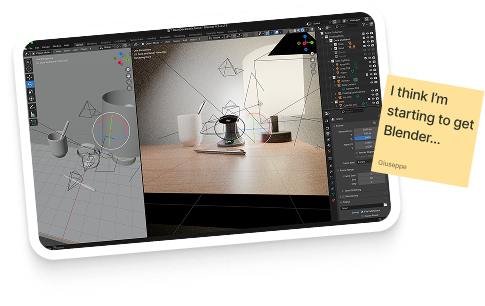
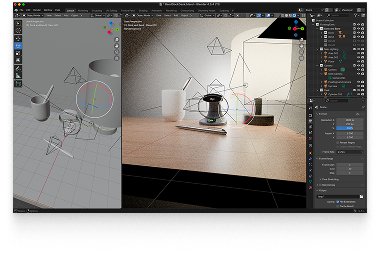
update

diff --git a/css/global.css b/css/global.css
@@ -78,7 +78,7 @@ body {
 
 /* Pill expanded state — fixed width so CSS can interpolate cleanly */
 .custom-cursor.expanded {
-  width: 170px;
+  width: var(--cursor-expanded-width, 170px);
   height: 46px;
   gap: 8px;
   border-radius: 12px;
@@ -143,6 +143,10 @@ body {
 
 .custom-cursor.no-arrow .cursor-arrow {
   display: none;
+}
+
+.custom-cursor.expanded.no-arrow {
+  padding: 0 16px;
 }
 
 /* Hide any legacy SVG injected by old JS */
@@ -1959,15 +1963,97 @@ body {
 }
 
 .mac-canvas-area {
-  height: 500px;
+  min-height: 500px;
+  padding: 32px;
   background-color: #f5f5f5;
   background-image: radial-gradient(circle, #c8c8c8 1px, transparent 1px);
   background-size: 22px 22px;
 }
 
+.mac-photo-grid {
+  position: relative;
+  min-height: 500px;
+}
+
+.mac-photo-card {
+  position: absolute;
+  margin: 0;
+  border-radius: 8px;
+  background: #fff;
+  border: 7px solid #fff;
+  box-shadow: 0 4px 20px rgba(0, 0, 0, 0.15);
+  overflow: visible;
+  cursor: none;
+  transition: transform 0.12s ease-out, box-shadow 0.12s ease-out;
+}
+
+.mac-photo-card:nth-child(1) {
+  /* 5k Run */
+  width: 18%;
+  top: 8%;
+  left: 5%;
+  transform: rotate(8deg);
+}
+
+.mac-photo-card:nth-child(2) {
+  /* Whale Shark */
+  width: 17%;
+  bottom: 2%;
+  right: 20%;
+  transform: rotate(-9deg);
+}
+
+.mac-photo-card:nth-child(3) {
+  /* Blender */
+  width: 40%;
+  top: -1%;
+  right: 10%;
+  transform: rotate(5deg);
+}
+
+.mac-photo-card:nth-child(4) {
+  /* Dune */
+  width: 18%;
+  bottom: 3%;
+  left: 27%;
+  transform: rotate(-3deg);
+}
+
+.mac-photo-card:hover {
+  box-shadow: 0 8px 30px rgba(0, 0, 0, 0.25);
+}
+
+.mac-photo-card:nth-child(1):hover {
+  transform: translateY(-4px) scale(1.03) rotate(-9deg);
+}
+
+.mac-photo-card:nth-child(2):hover {
+  transform: translateY(-4px) scale(1.03) rotate(10deg);
+}
+
+.mac-photo-card:nth-child(3):hover {
+  transform: translateY(-4px) scale(1.03) rotate(-6deg);
+}
+
+.mac-photo-card:nth-child(4):hover {
+  transform: translateY(-4px) scale(1.03) rotate(8deg);
+}
+
+.mac-photo-img {
+  display: block;
+  width: 100%;
+  height: auto;
+  border-radius: 2px;
+}
+
 @media (max-width: 768px) {
   .mac-canvas-area {
-    height: 380px;
+    min-height: 380px;
+    padding: 20px;
+  }
+
+  .mac-photo-grid {
+    min-height: 380px;
   }
 }
 
@@ -1984,8 +2070,17 @@ body {
   }
 
   .mac-canvas-area {
-    height: 280px;
+    min-height: 280px;
+    padding: 16px;
     background-size: 18px 18px;
+  }
+
+  .mac-photo-grid {
+    min-height: 280px;
+  }
+
+  .mac-photo-card {
+    border-width: 5px;
   }
 }
 

diff --git a/html/about.html b/html/about.html
@@ -102,7 +102,22 @@
                         </div>
                     </div>
 
-                    <div class="mac-canvas-area"></div>
+                    <div class="mac-canvas-area">
+                        <div class="mac-photo-grid">
+                            <figure class="mac-photo-card" data-cursor-label="Ran my first 5K 🏃">
+                                <img src="../media/About/5kRun.jpg" alt="5k run" class="mac-photo-img">
+                            </figure>
+                            <figure class="mac-photo-card" data-cursor-label="Got to see a whale shark in person! 🐋">
+                                <img src="../media/About/97AFA8BB-721F-411E-AA86-D4C2EDDB4AF7_1_105_c 1.jpg" alt="Whale shark" class="mac-photo-img">
+                            </figure>
+                            <figure class="mac-photo-card" data-cursor-label="finally figuring out Blender... 🤔">
+                                <img src="../media/About/BlenderScreenShot.jpg" alt="Blender screenshot" class="mac-photo-img">
+                            </figure>
+                            <figure class="mac-photo-card" data-cursor-label="Can't stop reading Dune Messiah ⏳">
+                                <img src="../media/About/DuneMessiah.jpg" alt="Dune Messiah" class="mac-photo-img">
+                            </figure>
+                        </div>
+                    </div>
                 </div>
             </div>
         </section>

diff --git a/main.js b/main.js
@@ -448,18 +448,22 @@ document.addEventListener('click', (e) => {
 // WALL PHOTO CURSOR HOVER
 // ==========================================
 function initWallPicCursorHover() {
-  const wallPics = document.querySelectorAll('.wall-pic[data-cursor-label]');
+  const wallPics = document.querySelectorAll('.wall-pic[data-cursor-label], .mac-photo-card[data-cursor-label]');
   if (!cursor || wallPics.length === 0) return;
 
   wallPics.forEach(pic => {
     pic.addEventListener('mouseenter', () => {
-      if (cursorLabelEl) cursorLabelEl.textContent = pic.dataset.cursorLabel;
+      const label = pic.dataset.cursorLabel || '';
+      if (cursorLabelEl) cursorLabelEl.textContent = label;
+      const labelWidth = Math.min(Math.max(label.length * 7.5 + 36, 96), 320);
+      cursor.style.setProperty('--cursor-expanded-width', `${labelWidth}px`);
       // No arrow for photo labels
       cursor.classList.add('expanded', 'no-arrow');
     });
 
     pic.addEventListener('mouseleave', () => {
       cursor.classList.remove('expanded', 'no-arrow');
+      cursor.style.removeProperty('--cursor-expanded-width');
       if (cursorLabelEl) cursorLabelEl.textContent = 'View Project';
     });
   });

diff --git a/html/case-study-CBSSports.html b/html/case-study-CBSSports.html
@@ -89,7 +89,7 @@
                             <h3 class="overview-column-heading">Overview</h3>
                             <div class="overview-text">
                                 <p>
-                                    CBS Sports approached SCADPro with the proposition to acquire select students for a <strong>complete overhaul of the Worlds Strongest Man Competition's Live Broadcast GFX package.</strong> I lead the research phase for our final deliverables as well as helped lead the overall art direction of the final graphics package.
+                                    CBS Sports approached SCADPro with the proposition to acquire select students for a complete overhaul of the Worlds Strongest Man Competition's Live Broadcast GFX package. I lead the research phase for our final deliverables as well as helped lead the overall art direction of the final graphics package. While also presenting our final deliverables to CBS Sports directly.
                                 </p>
                             </div>
                             <div class="case-template-grid">